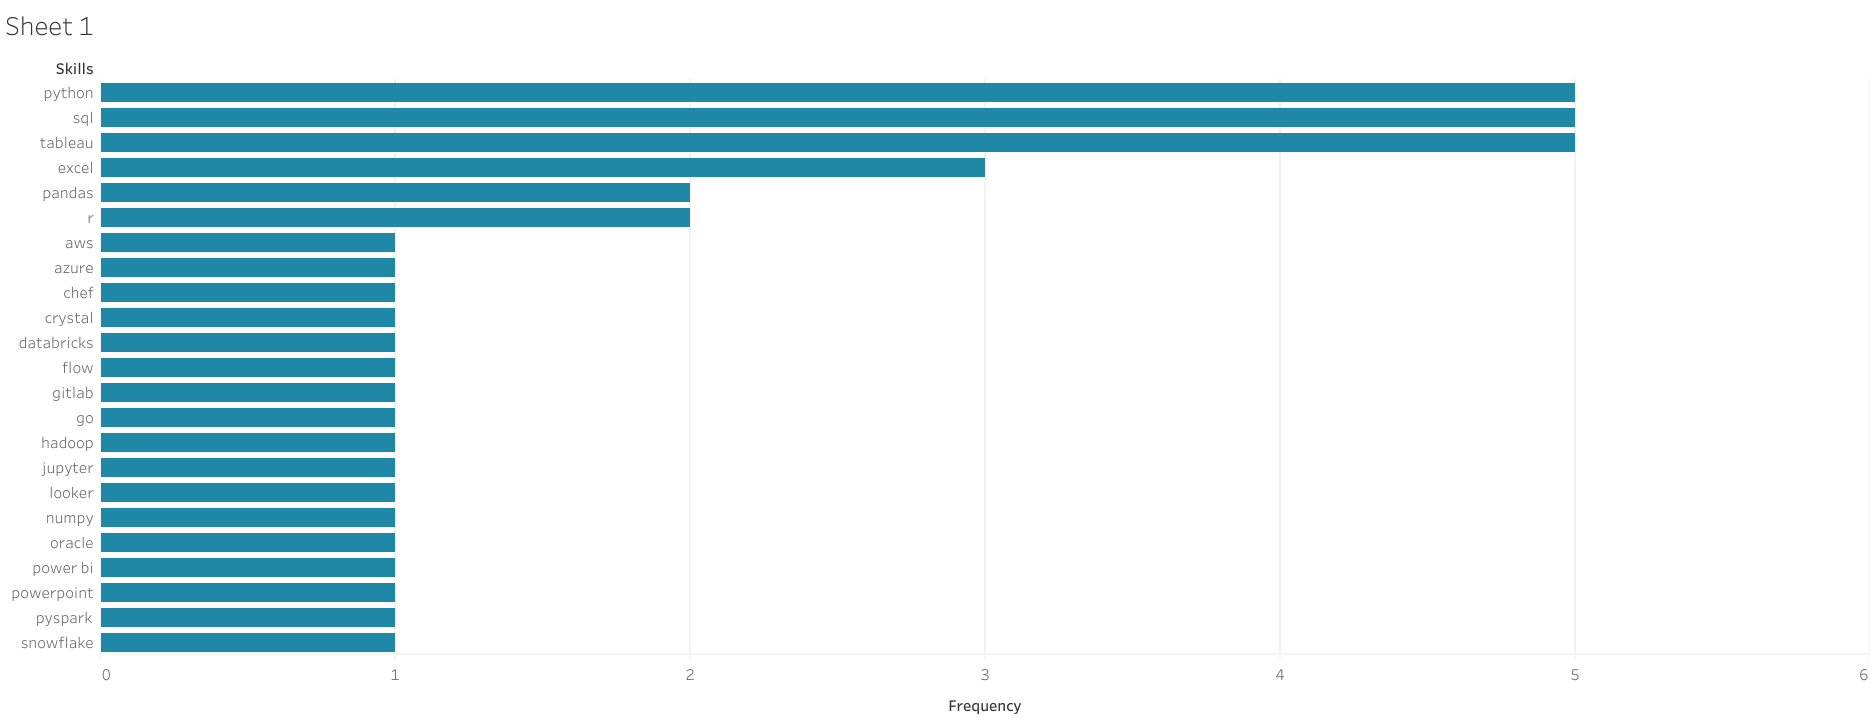
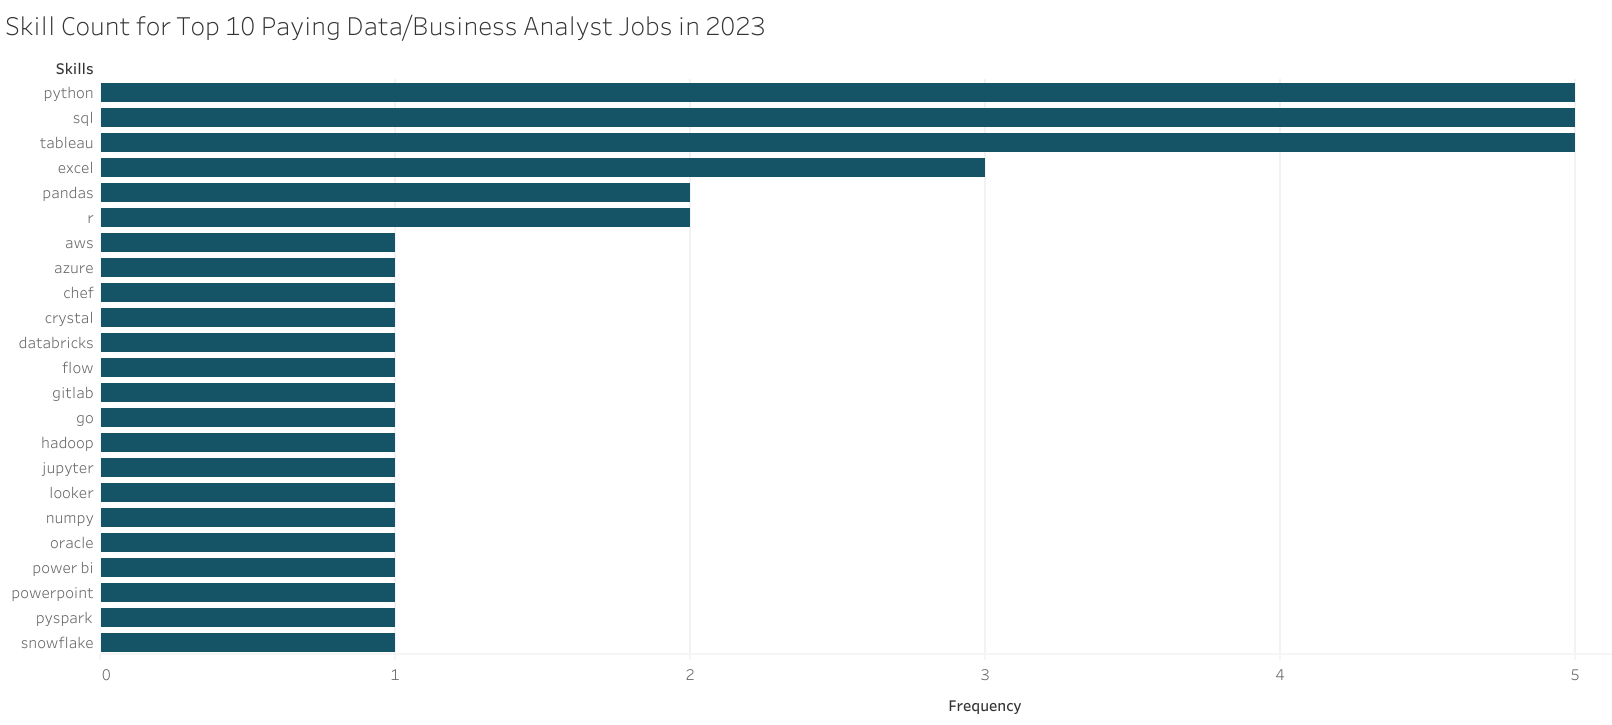
readme/query_updates

diff --git a/README.md b/README.md
@@ -56,12 +56,12 @@ Breakdown of the top data business and data analyst jobs in 2023:
 - **Job Title Diversity:** Its also noticeable that there's a lot of different names for positions specialized within data analytics.
 - **Job Location:** Even though the query was presenting results for remote positions as well as positions in Portugal, in the top-payed positions there isn't a single one located in Portugal, which reflects the low-income when compared with other countries.
 
-![Top Paying Roles](assets\query_1.png)
+![Top-Paying Roles](assets\query_1.png)
 *Bar graph to present the salary of the top 15 salaries for data/business analysts; Visualization made using Tableau.*
 
 
 
-### 2. Top Paying Skills
+### 2. Top-Paying Skills
 To identify the skills which are required for the top-paying jobs, I joined the job postings table and the skills data in order to get insights into what employers are looking for in high paying roles.
 
 ```sql
@@ -80,7 +80,7 @@ WITH highest_paying_jobs AS (
         AND salary_year_avg IS NOT NULL
     ORDER BY
         salary_year_avg DESC
-    LIMIT 7
+    LIMIT 10
 ) 
 
 SELECT 
@@ -94,9 +94,180 @@ ORDER BY
     salary_year_avg DESC
 
 ```
-![Top Paying Roles](assets\query_2.png)
-*Bar graph to present the count of times each skill appears *
-# What I learned
+
+
+Breaking down the result from the query, the most demanded skills for data analysts in the 10 highest paying jobs are:
+
+**SQL, Python and SQL:** leading with each having a count of 5.
+
+**Excel:** is the fourth most common skill, listed 3 times.
+
+Other skills like R (2 times) Pandas (2 times) are less demanded, followed by all the others with one listing each.
+
+![Skills in Top-Paying Roles](assets\query_2.png)
+*Bar graph to present the count of times each skill appears in the top 10 salaries for data/business analysts; Visualization made using Tableau.*
+
+### 3. Most demanded skills
+From the entire dataset, to identify the skills which appear the most in the job postings, focusing on the top 10 demanded skills.
+
+```sql
+SELECT
+    skills,
+    COUNT(sjd.job_id) AS skill_demand_count
+FROM
+    job_postings_fact AS jpf
+INNER JOIN skills_job_dim AS sjd ON sjd.job_id  =  jpf.job_id
+INNER JOIN skills_dim AS sd ON sd.skill_id = sjd.skill_id
+WHERE
+    job_title_short in ('Business Analyst','Data Analyst')
+    AND job_location in ('Portugal', 'Anywhere')
+GROUP BY
+    skills
+ORDER BY
+    skill_demand_count DESC
+LIMIT 10
+
+```
+
+The breakdown of the most demanded skills in job postings of 2023:
+
+**SQL** and **Excel** are fundamental and the most sought out skills in the dataset, extremely important for data processing and manipulation.
+
+Directly followed by **Python**, **Tableau**, **Power BI** and **R**, which again, are fundamental and some of the most popular tools for ******Data Visualization**** and **Programming** in the world of ******Data Analytics**
+
+The next skills presented consist on varied tools around **Data Visualization/Presentation** and **Cloud Computing**, with considerably lower number of job postings demanding them.
+
+| **Skills** | **Demand Count**|
+| :--------- | :----|
+| SQL        | 8716 |
+| Excel      | 5680 |
+| Python     | 4980 |
+| Tableau    | 4529 |
+| Power BI   | 3247 |
+| R          | 2424 |
+| SAS        | 2112 |
+| PowerPoint | 1077 |
+| Azure      | 1043 |
+| Looker     | 1025 |
+
+*Table showing the top 10 most demanded skills in data/business analyst job postings.*
+
+### 4. Top-Paying Skills
+To explore the average salaries associated with different skills revealed which skills are better compensated.
+
+```sql
+SELECT
+    skills,
+    ROUND(AVG(salary_year_avg), 0) AS skill_average_salary
+FROM
+    job_postings_fact AS jpf
+INNER JOIN skills_job_dim AS sjd ON sjd.job_id  =  jpf.job_id
+INNER JOIN skills_dim AS sd ON sd.skill_id = sjd.skill_id
+WHERE
+    job_title_short in ('Business Analyst', 'Data Analyst') 
+    AND job_location in ('Portugal', 'Anywhere')
+    AND salary_year_avg IS NOT NULL
+GROUP BY
+    skills
+ORDER BY
+    skill_average_salary DESC
+LIMIT 10
+
+```
+
+The breakdown of the highest paying skills for **Data/Business Analysts**:
+
+- **High Salaries for Big Data and Machine Learning Tools:** Employers pay higher salaries for positions involving tools to work with Big Data (**PySpark**,**Couchbase**) and Machine Learning tools (**DataRobot**, **Jupyter**).
+- **Niche tools:** tools that are not so common/more specialized tend to have a higher compensation because of the lack of people able to use them.
+
+
+| **Skills** | **Average Salary ($/year)**|
+| :--------  | ------: |
+| PySpark    | 208 172 |
+| Bitbucket  | 189 155 |
+| GDPR       | 165 000 |
+| Watson     | 160 515 |
+| Couchbase  | 160 515 |
+| DataRobot  | 155 486 |
+| GitLab     | 154 500 |
+| Swift      | 153 750 |
+| Jupyter    | 152 777 |
+| Chef       | 152 500 |                    
+
+*Table showing the highest average salaries from the top 10 payed skills in Data/Business Analysts.*
+
+### 5. Most Optimal Skills
+Combining insights from both the demand and salary data from the previous queries, this last query is focused on finding skills that are both high-demand and have high salaries.
+
+```sql
+SELECT
+    sd.skill_id,
+    sd.skills,
+    COUNT(sjd.job_id) AS demand_count,
+    ROUND(AVG(salary_year_avg), 0) AS avg_salary
+FROM
+    job_postings_fact AS jpf
+INNER JOIN skills_job_dim AS sjd ON sjd.job_id = jpf.job_id
+INNER JOIN skills_dim AS sd ON sd.skill_id = sjd.skill_id
+WHERE
+    job_title_short in ('Business Analyst', 'Data Analyst') 
+    AND job_location in ('Portugal', 'Anywhere')
+    AND salary_year_avg IS NOT NULL
+GROUP BY
+    sd.skill_id
+HAVING
+    COUNT(sjd.job_id) > 20
+ORDER BY
+    avg_salary DESC,
+    demand_count DESC
+LIMIT 15
+```
+
+| **Skill ID** | **Skills** | **Demand Count** | **Avg Salary** |
+|:---------|:------------|:-------------|------------:|
+| 80       | Snowflake   | 38           | 112 989     |
+| 74       | Azure       | 36           | 112 310     |
+| 97       | Hadoop      | 25           | 111 849     |
+| 8        | Go          | 30           | 111 121     |
+| 76       | AWS         | 32           | 108 317     |
+| 185      | Looker      | 55           | 106 476     |
+| 79       | Oracle      | 43           | 103 877     |
+| 233      | Jira        | 22           | 103 403     |
+| 1        | Python      | 259          | 102 828     |
+| 4        | Java        | 21           | 102 258     |
+| 5        | R           | 156          | 101 223     |
+| 182      | Tableau     | 259          | 99 783      |
+| 61       | SQL Server  | 39           | 99 672      |
+| 186      | SAS         | 70           | 98 908      |
+| 7        | SAS         | 70           | 98 908      |
+
+*Table showing the top 15 most optimal skills for Data/Business Analysts in 2023.*
+
+**Note:** SAS appearing twice with different ID's, further information needed to conlcude why.
+
+The breakdown of the highest paying skills for **Data/Business Analysts**:
+
+- **High-Demand Programming Languages**: **Python** and **R** stand out by having a very high demand and also a very high compensation. Despite having such a high demand they are still very well compensated skills which might indicate that they are not only highly valued but also widely available.
+- **Data Visualization Tools:** the same goes for Tableau, which is another tool with very high demand and maintains a high compensation. Also **Looker**, with a fairly high demand and very high salaries.
+- **Cloud Computing and Database Tools:** again, as seen previously, cloud computing and its tools are fairly sought out and very well payed as **Snowflake**, **Azure**, **AWS**, **SAS** and **BigQuery**.
+
+
+# What I Learned
+With this project and all the exercises done located over on the [exercises folder](\exercises), I further improved on the basics I learned in the Google Data Analyst Certificate:
+- **Complex Query Building:** touched new concepts, new functions and ways of achieving the results I want in more complex ways;
+- **Analytical Thinking:** puzzle-solving my way to finding answers to questions about this particular set and bringing forward insight over it all.
+- **Tableau Practice:** further explored Tableau to create some visualizations about the data.
+- **Project Presentation:** Learned valuable lessons in the way I present my projects and my findings. This project gave me some confidence in how to approach projects going forward and how to navigate different data types and datasets.
 
 # Conclusions
 
+### Insights
+From the analysis, generally we can conclude:
+1. **Top-Paying Jobs:** All the highest-paying positions are remote, with positions in Portugal being considerably less compensated.
+2. **Skills for Top-Paying Jobs:** High-paying jobs require knowledge in SQL, further highlighting the importance in being proficient in this skill.
+3. **Most Demanded Skills:**The most sought out skill is also SQL, again making it an essential skill to learn for job-seekers.
+4. **Skills With Highest Salaries**: The best compensated skills are very specialized probably because of the lack of people available to use them effectively.
+5. **Optimal Skills:** As highlighted in the previous bullet-points, SQL is outstandingly the most-optimal skill to learn, combining a high-demand and high salary.
+
+### Closing Statement
+This project turned out to be na invaluable learning opportunity not only on SQL, but also the whole Data Analysis process, familiarizing me further with the language, but also all the tools used (like VStudio Code, Tableau, PostgreSQL). As the theme of this dataset is so relevant to someone like me who's searching for new job opportunities, practicing my knowledge while also getting valuable insights on the job market was a win-win scenario. Look forward to further improve on the skills touched on this project and others!
